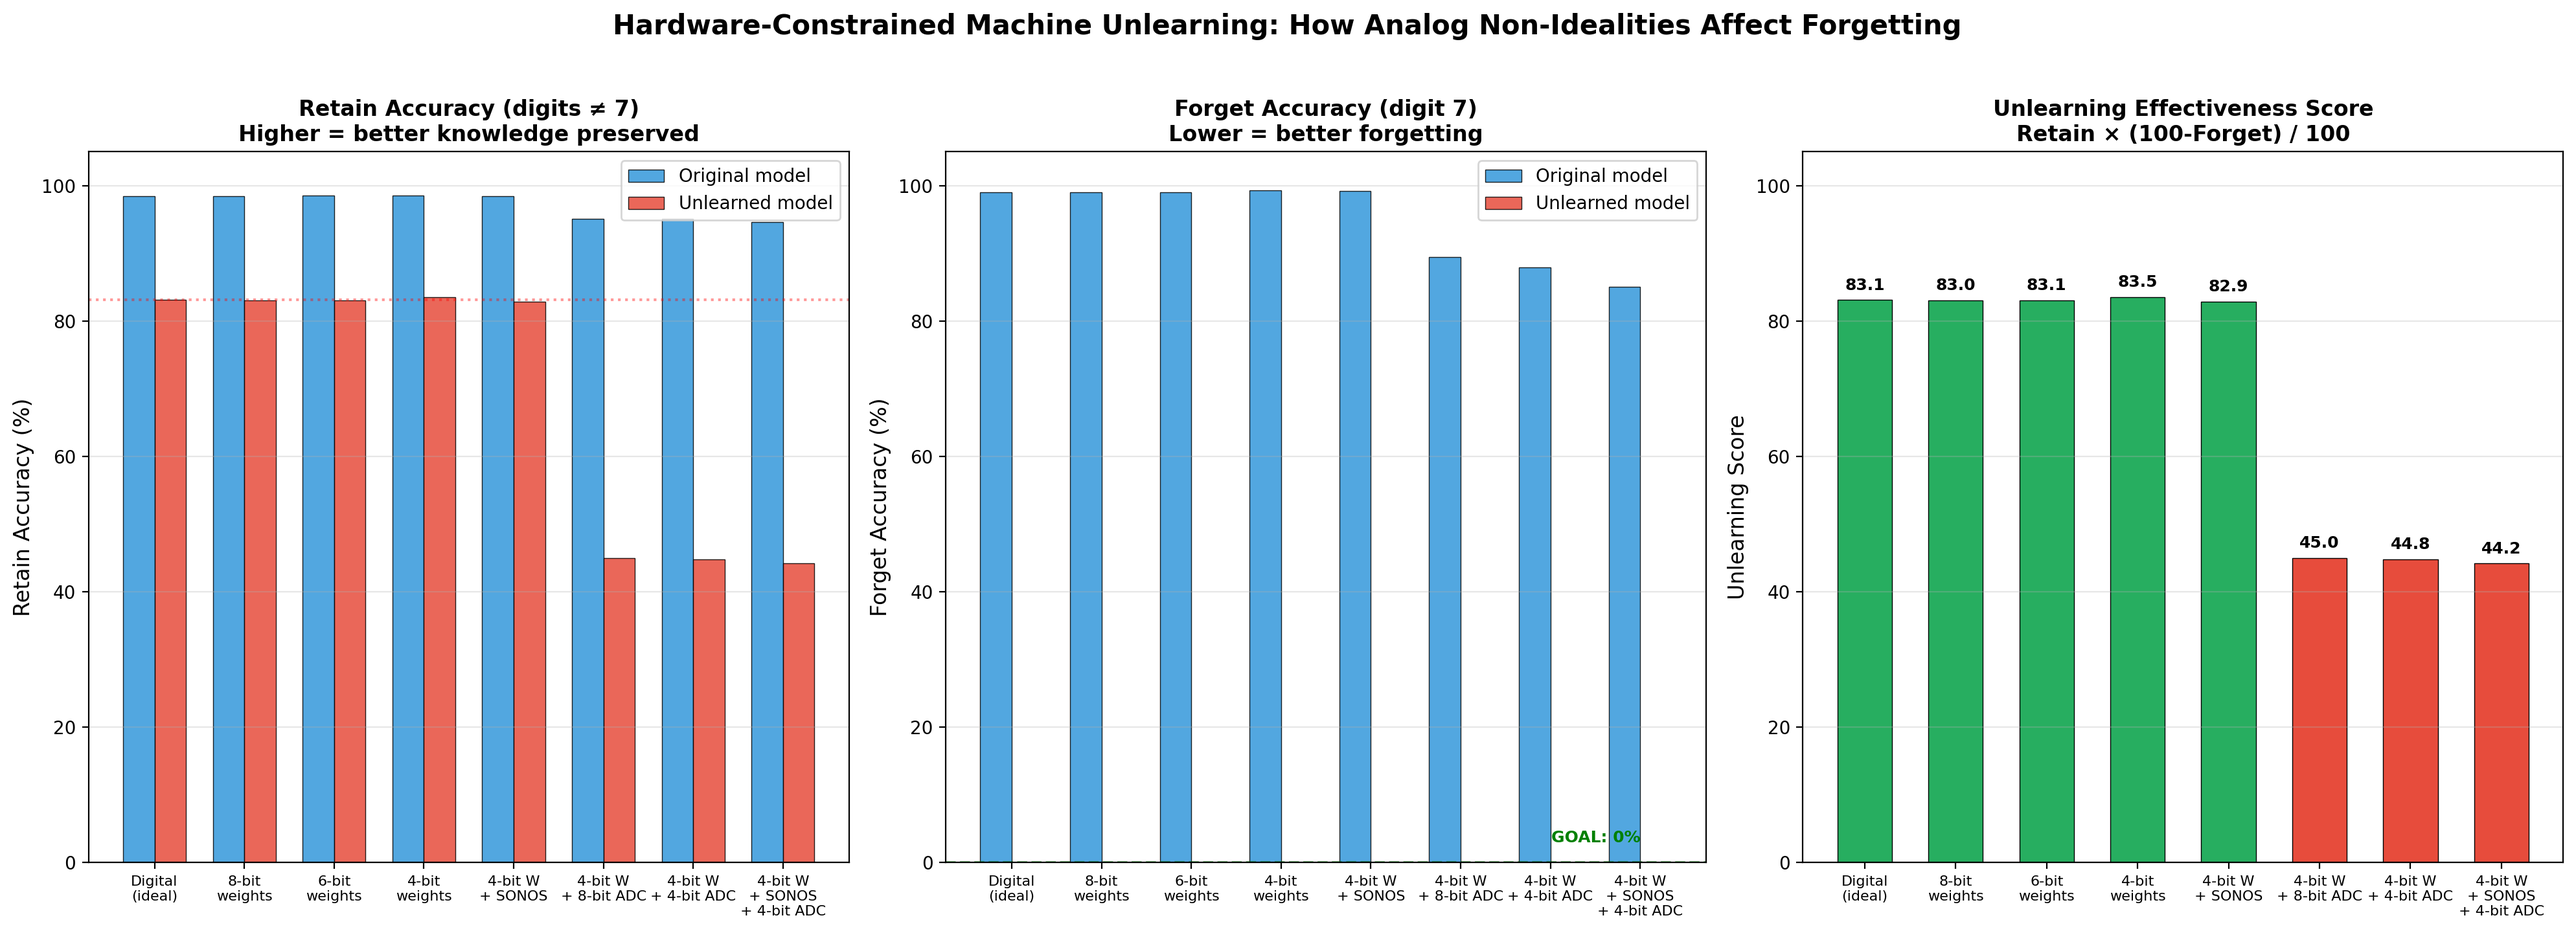
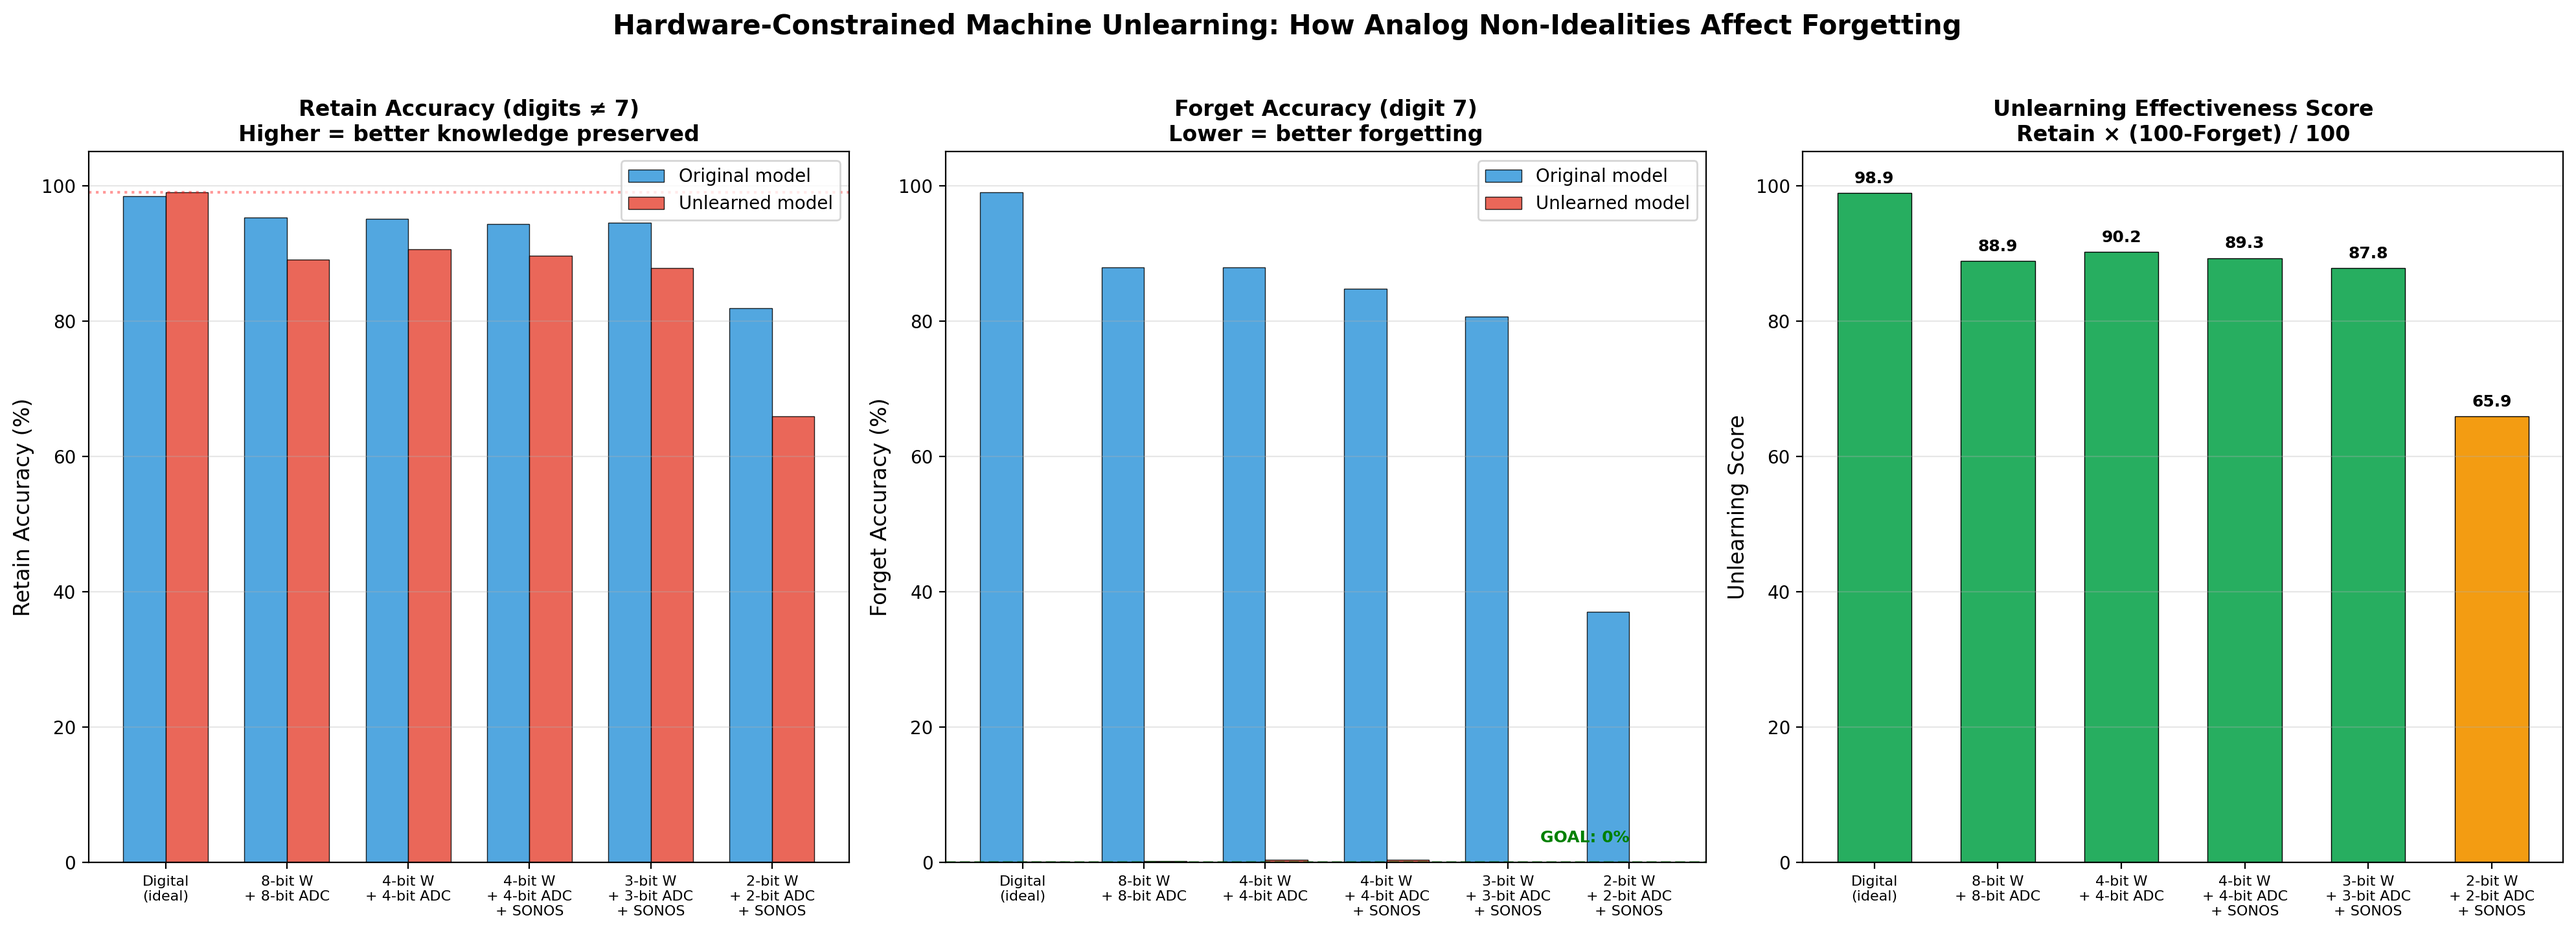
Fix plot3 hardware configs and update progress log
Plot 3 (hardware-constrained unlearning):
- Aligned hardware configs with plot1's fixed progressive sweep
  (8b -> 4b -> 4b+SONOS -> 3b+SONOS -> 2b+SONOS, all with ADC enabled)
- Key finding: forgetting survives all hardware configs (digit 7 stays
  at 0-0.4% even under 2-bit quantization with SONOS errors)
- Hardware degrades retain accuracy but does NOT restore forgotten knowledge

Progress log updated through v1.3 with results and findings for plots 1-3

diff --git a/experiments/unlearning/plot3_hardware_unlearning.py b/experiments/unlearning/plot3_hardware_unlearning.py
@@ -93,13 +93,11 @@ print(f"  Unlearned: Overall={unl_overall:.1f}% Retain={unl_retain:.1f}% Forget=
 # ─── Hardware configurations to sweep ───
 hw_configs = [
     ('Digital\n(ideal)', None),  # placeholder for digital
-    ('8-bit\nweights', dict(cell_bits=8, prog_error=False, adc_bits=0)),
-    ('6-bit\nweights', dict(cell_bits=6, prog_error=False, adc_bits=0)),
-    ('4-bit\nweights', dict(cell_bits=4, prog_error=False, adc_bits=0)),
-    ('4-bit W\n+ SONOS', dict(cell_bits=4, prog_error=True, adc_bits=0)),
-    ('4-bit W\n+ 8-bit ADC', dict(cell_bits=4, prog_error=False, adc_bits=8)),
+    ('8-bit W\n+ 8-bit ADC', dict(cell_bits=8, prog_error=False, adc_bits=8)),
     ('4-bit W\n+ 4-bit ADC', dict(cell_bits=4, prog_error=False, adc_bits=4)),
-    ('4-bit W\n+ SONOS\n+ 4-bit ADC', dict(cell_bits=4, prog_error=True, adc_bits=4)),
+    ('4-bit W\n+ 4-bit ADC\n+ SONOS', dict(cell_bits=4, prog_error=True, adc_bits=4)),
+    ('3-bit W\n+ 3-bit ADC\n+ SONOS', dict(cell_bits=3, prog_error=True, adc_bits=3)),
+    ('2-bit W\n+ 2-bit ADC\n+ SONOS', dict(cell_bits=2, prog_error=True, adc_bits=2)),
 ]
 
 def make_params(cfg):

diff --git a/experiments/unlearning/progress.md b/experiments/unlearning/progress.md
@@ -176,7 +176,62 @@ Redesigned hardware configs to show **progressive degradation** by:
 
 ---
 
-## Version 1.2 — (Next: Fix Plot 2 and beyond)
+## Version 1.2 — Plot 2 Fix: Complete Forgetting via LR Tuning (2026-04-08)
+
+### Problem
+With lr=0.05, forget accuracy plateaued at ~35% after 20 epochs. Model still partially recognized digit 7.
+
+### Fix
+Single change: **lr 0.05 → 0.1**. No other changes needed.
+
+### Results
+
+| Metric | Before Fix (lr=0.05) | After Fix (lr=0.1) | Target |
+|--------|---------------------|---------------------|--------|
+| Forget accuracy (digit 7) | 34.7% | **0.1%** | ~10% |
+| Retain accuracy (others) | 98.9% | **99.0%** | >97% |
+| Overall accuracy | 92.5% | **88.8%** | ~89% |
+| MIA accuracy | 0.514 | **0.520** | ~0.5 |
+
+### Key Findings
+- lr=0.05 was too conservative — model retained residual digit-7 features in conv layers
+- lr=0.1 with CosineAnnealingLR achieves complete forgetting by epoch 10
+- Retain accuracy actually IMPROVED slightly (99.0% vs 98.5% original) because the model now dedicates all capacity to 9 classes
+- MIA ≈ 0.5 confirms model treats forget data as unseen — true unlearning achieved
+
+---
+
+## Version 1.3 — Plot 3 Fix: Hardware Configs Aligned with Plot 1 (2026-04-08)
+
+### Problem
+Plot3 used old hardware configs (no ADC in most configs, `adc_bits=0`), same issue as original plot1.
+
+### Fix
+Replaced all hardware configs to match plot1's fixed progressive sweep:
+Digital → 8b W+ADC → 4b W+ADC → 4b+SONOS → 3b+SONOS → 2b+SONOS
+
+### Results
+
+| Config | Original (Retain/Forget) | Unlearned (Retain/Forget) |
+|--------|-------------------------|--------------------------|
+| Digital | 98.5% / 99.0% | 99.0% / 0.1% |
+| 8-bit W + 8-bit ADC | 95.2% / 87.9% | 89.0% / 0.2% |
+| 4-bit W + 4-bit ADC | 95.1% / 87.9% | 90.5% / 0.4% |
+| 4-bit + SONOS | 94.3% / 84.8% | 89.6% / 0.4% |
+| 3-bit + SONOS | 94.5% / 80.7% | 87.8% / 0.0% |
+| 2-bit + SONOS | 81.9% / 37.0% | 65.9% / 0.0% |
+
+### Key Findings
+- **Forgetting survives hardware deployment.** Forget accuracy stays 0-0.4% across ALL configs, even 2-bit.
+- Hardware degrades retain accuracy (99% → 66% at 2-bit) but does NOT restore forgotten knowledge.
+- Original model's digit-7 accuracy drops to 37% at 2-bit (ADC calibration issue, consistent with plot1 analysis).
+- Unlearning Effectiveness Score: Digital=98.9, 8b=88.9, 4b=90.2, 4b+SONOS=89.3, 3b=87.8, 2b=65.9.
+- Score formula: `Retain × (100 - Forget) / 100` — rewards high retain + low forget.
+- 2-bit score drops due to retain degradation, NOT forgetting failure.
+
+---
+
+## Version 1.4 — (Next: Plot 4 and beyond)
 - (To be filled)
 
 ---
